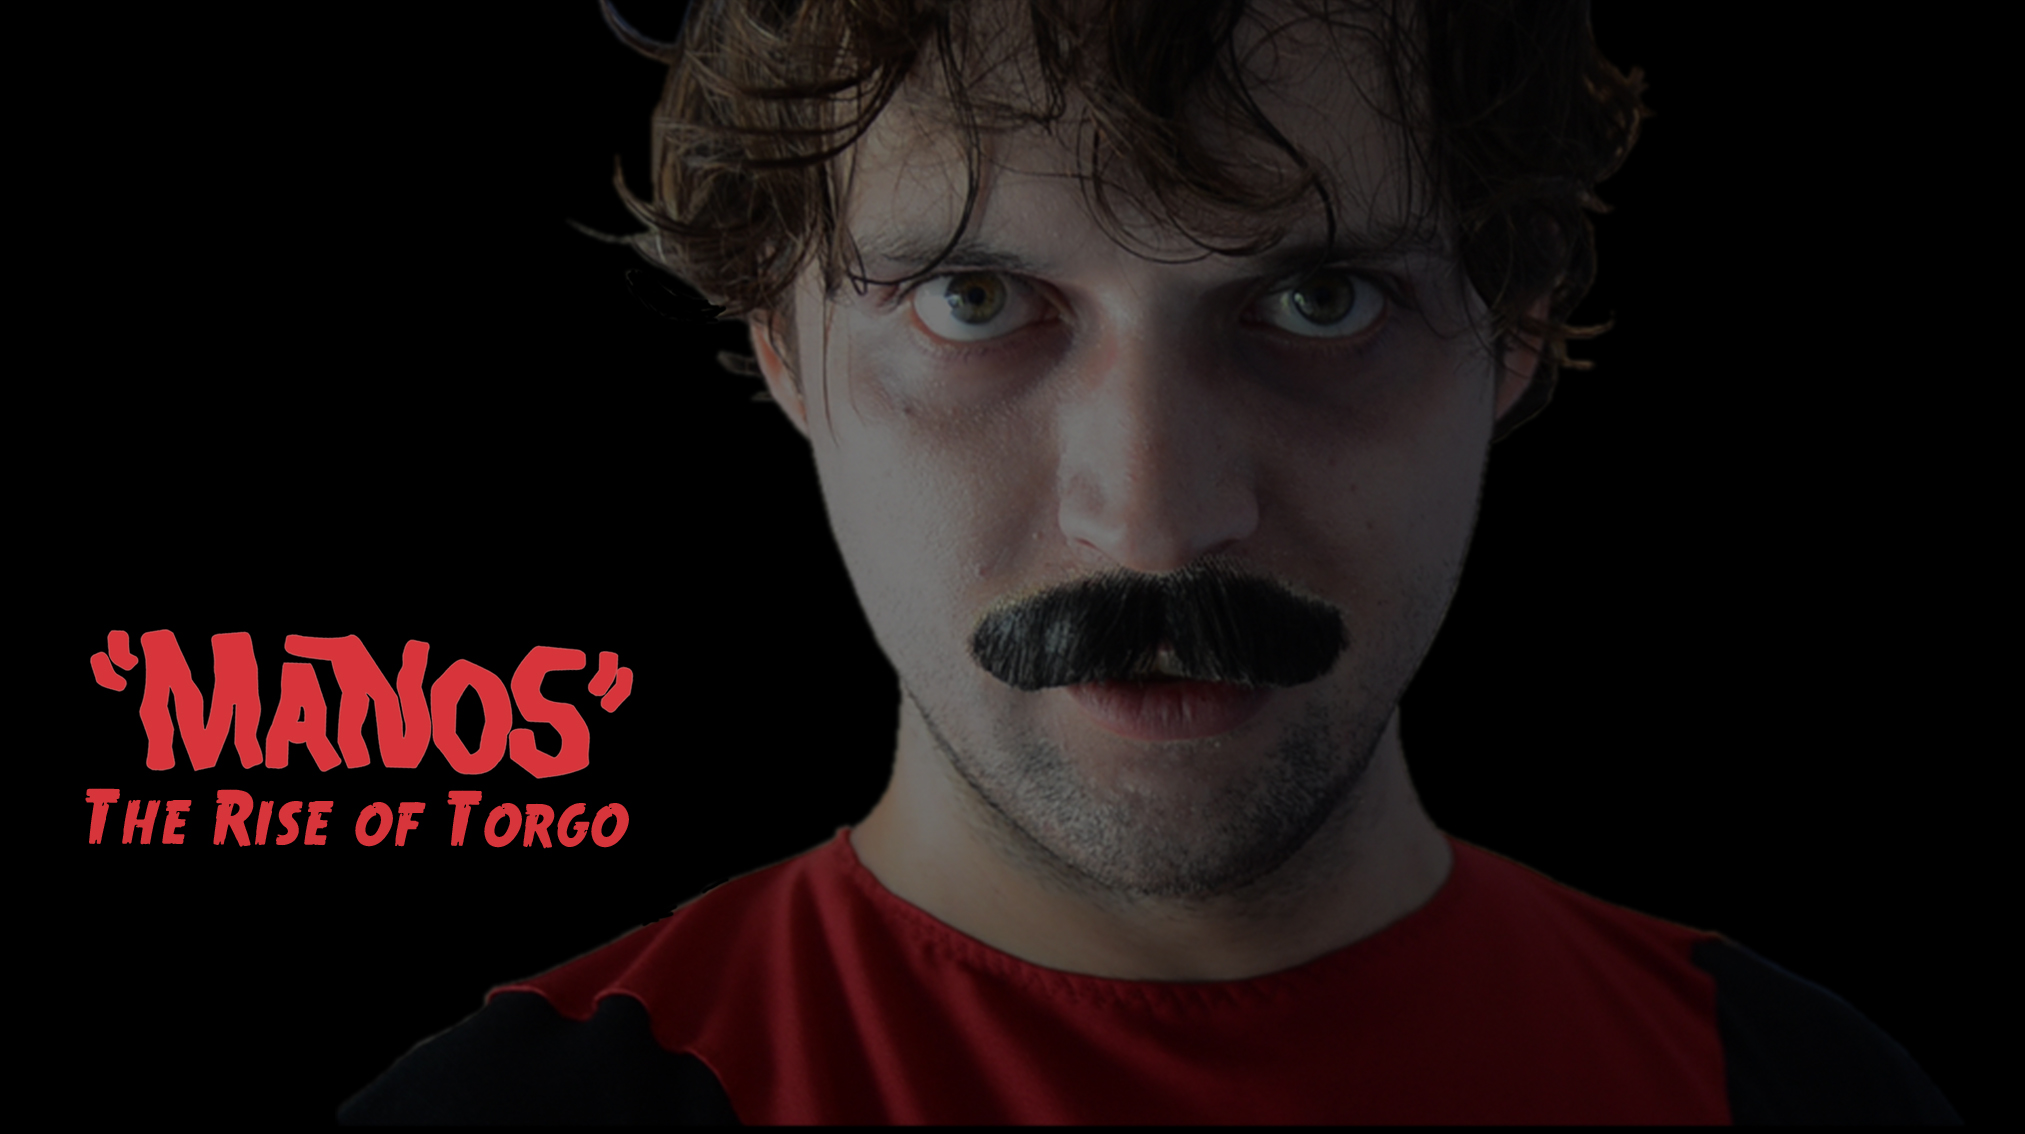
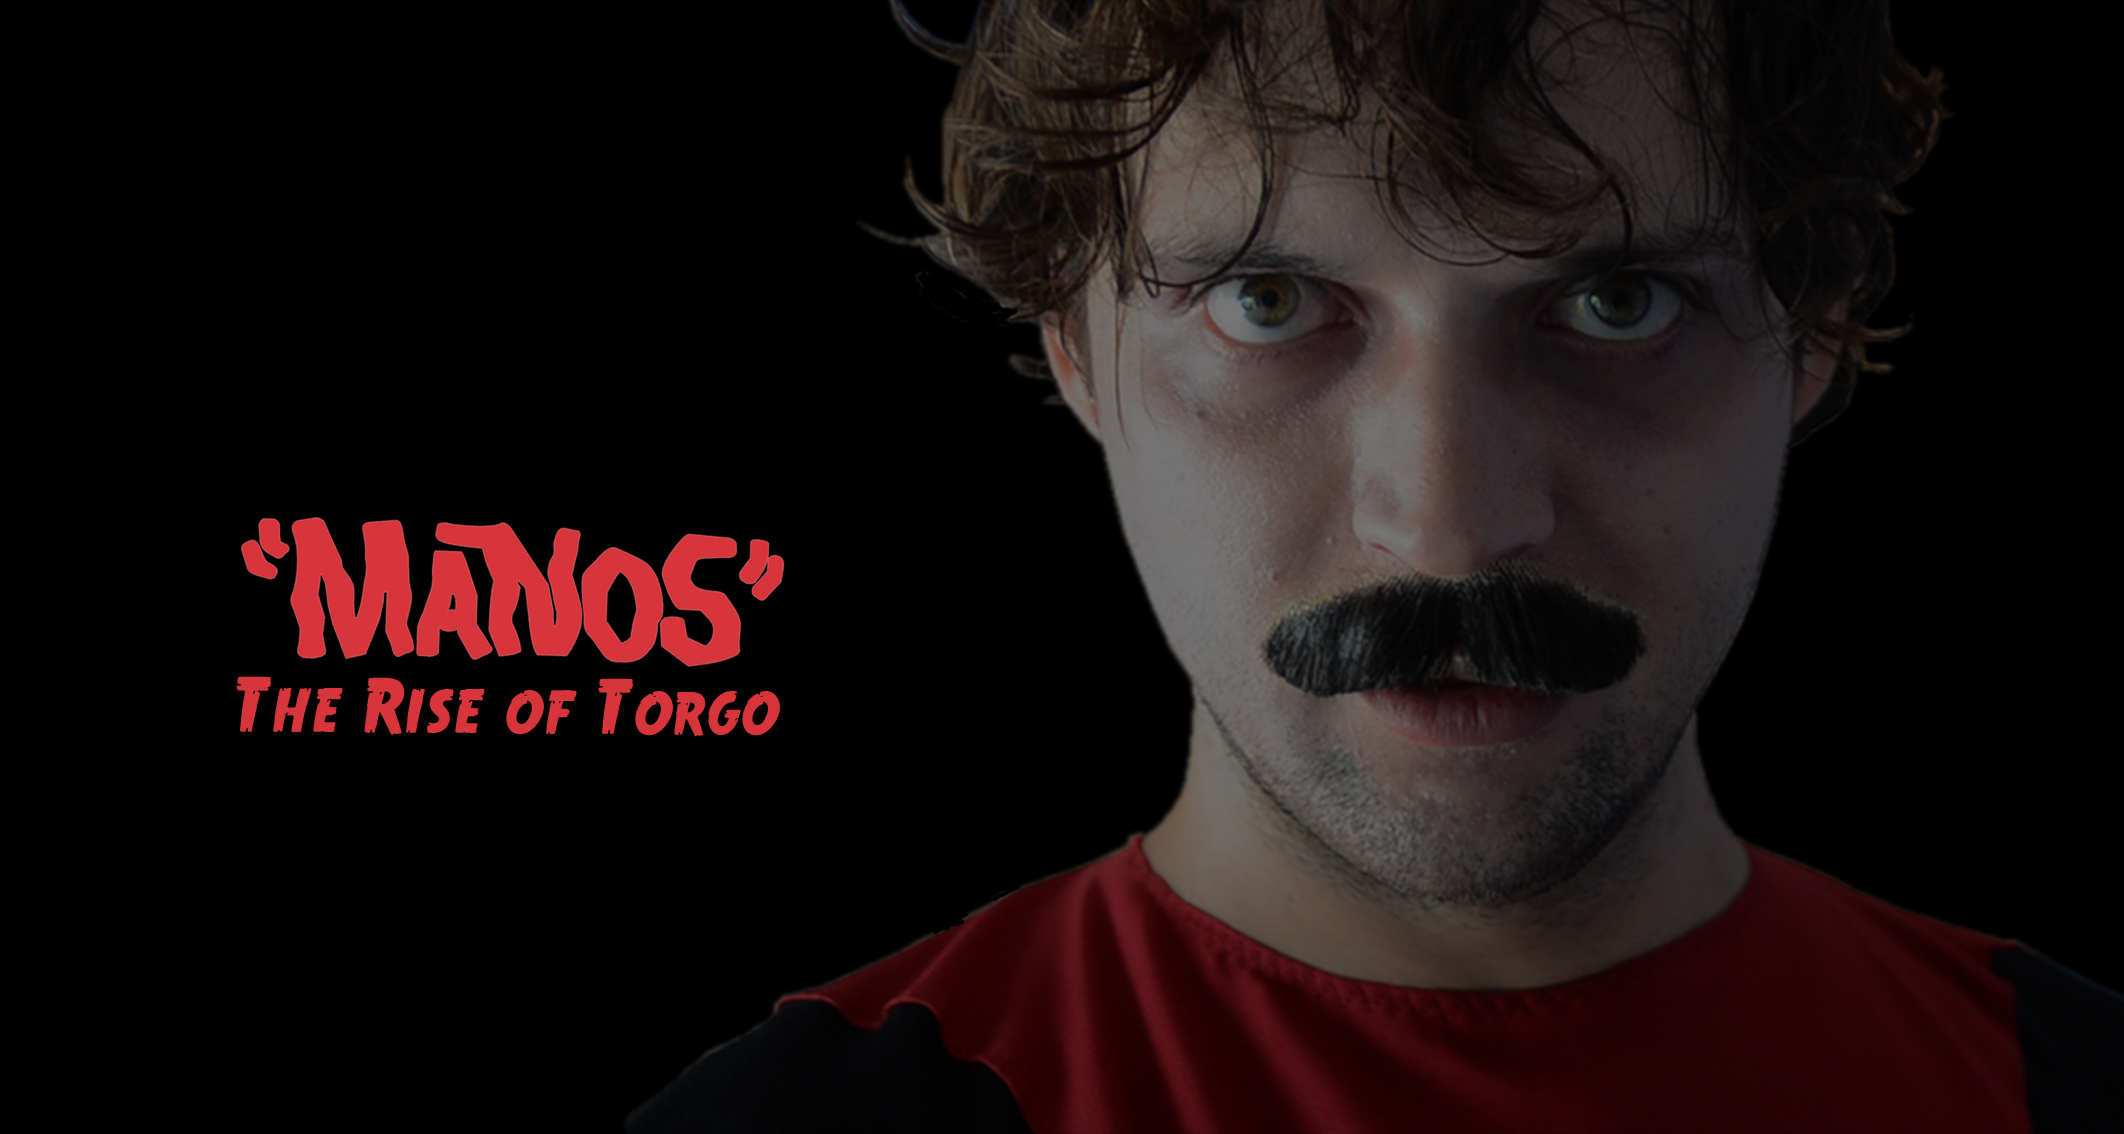
landing page responsive for all devices

diff --git a/app/assets/stylesheets/application.scss b/app/assets/stylesheets/application.scss
@@ -33,15 +33,14 @@ h1{
 .image{
   margin-top:-80px;
   margin-left: -30px;
-  background-size: cover;
 
 }
 
 .continue{
   z-index: 3;
   position: relative;
-  left:70px;
-  top:-130px;
+  left:220px;
+  top:-180px;
 }
 
 .col-lg-4{
@@ -75,16 +74,12 @@ body{
 }
 
 @media screen and (max-width: 768px) {
-  .continue{
-   left: 0px;
-   }
+
 }
 
  @media screen and (max-width: 400px) {
      font-size: 13px;
      .center-tagline {
        font-size: 36px;
-        .continue{
-         }
        }
      }
